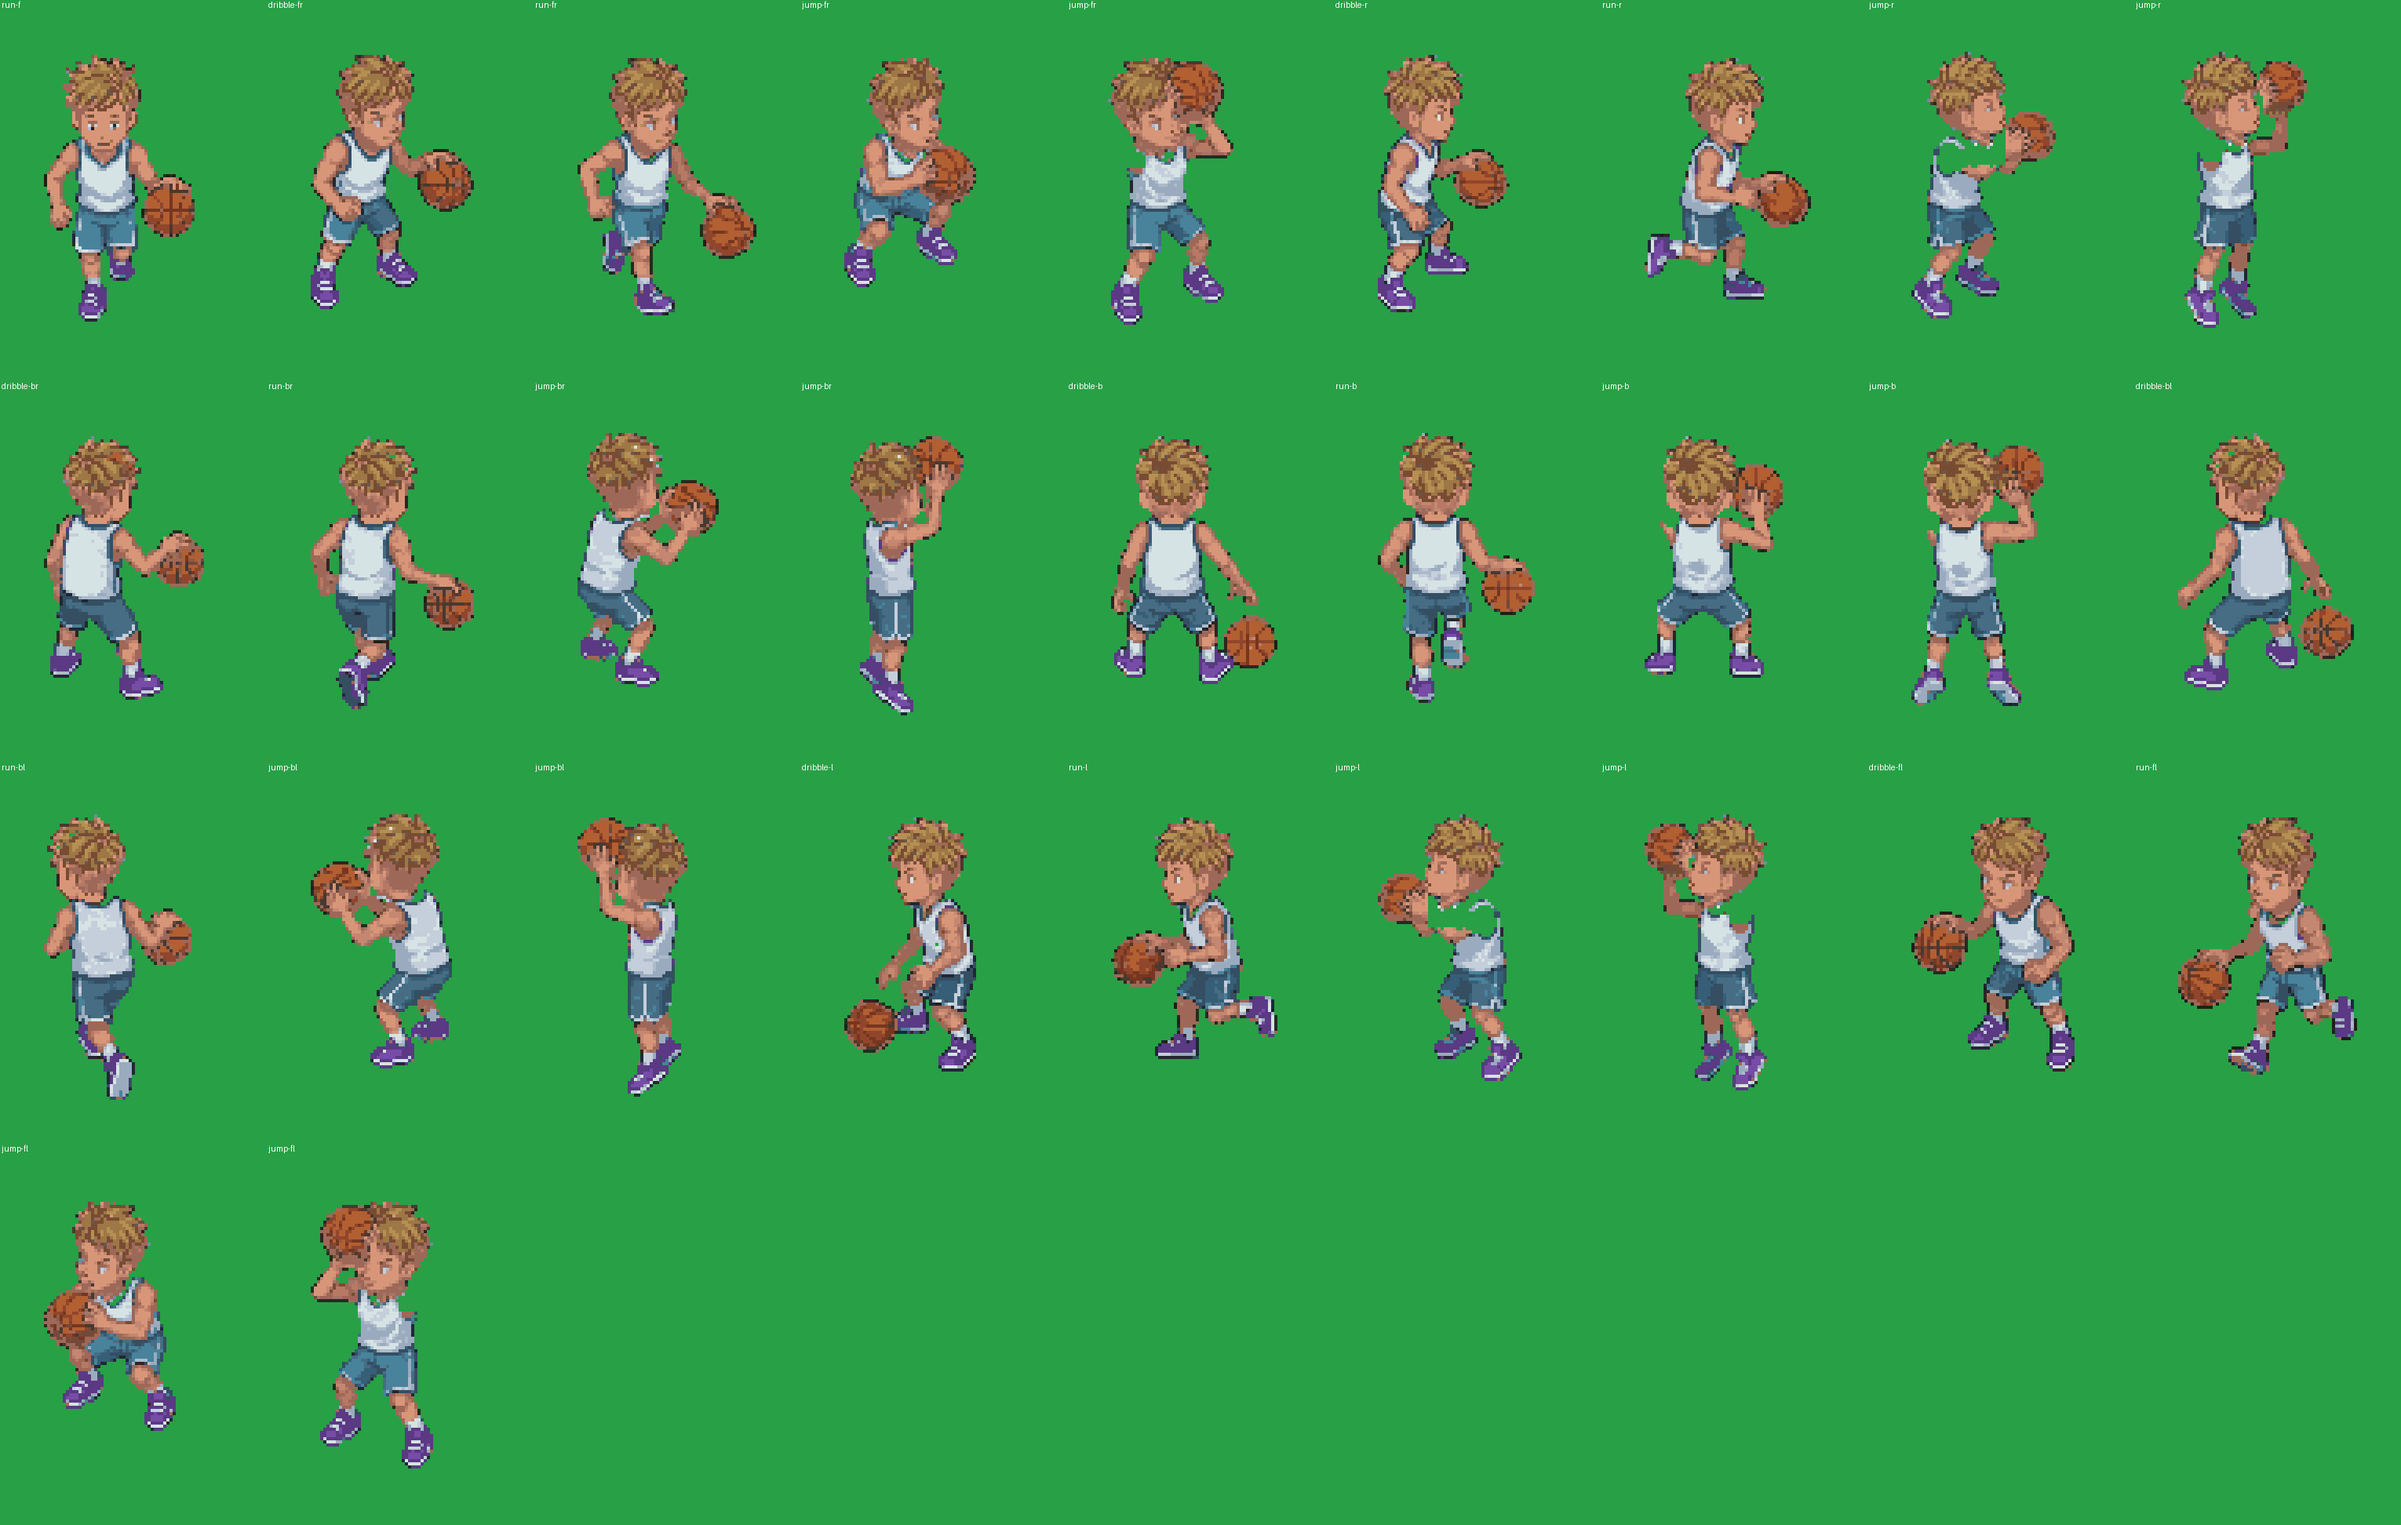
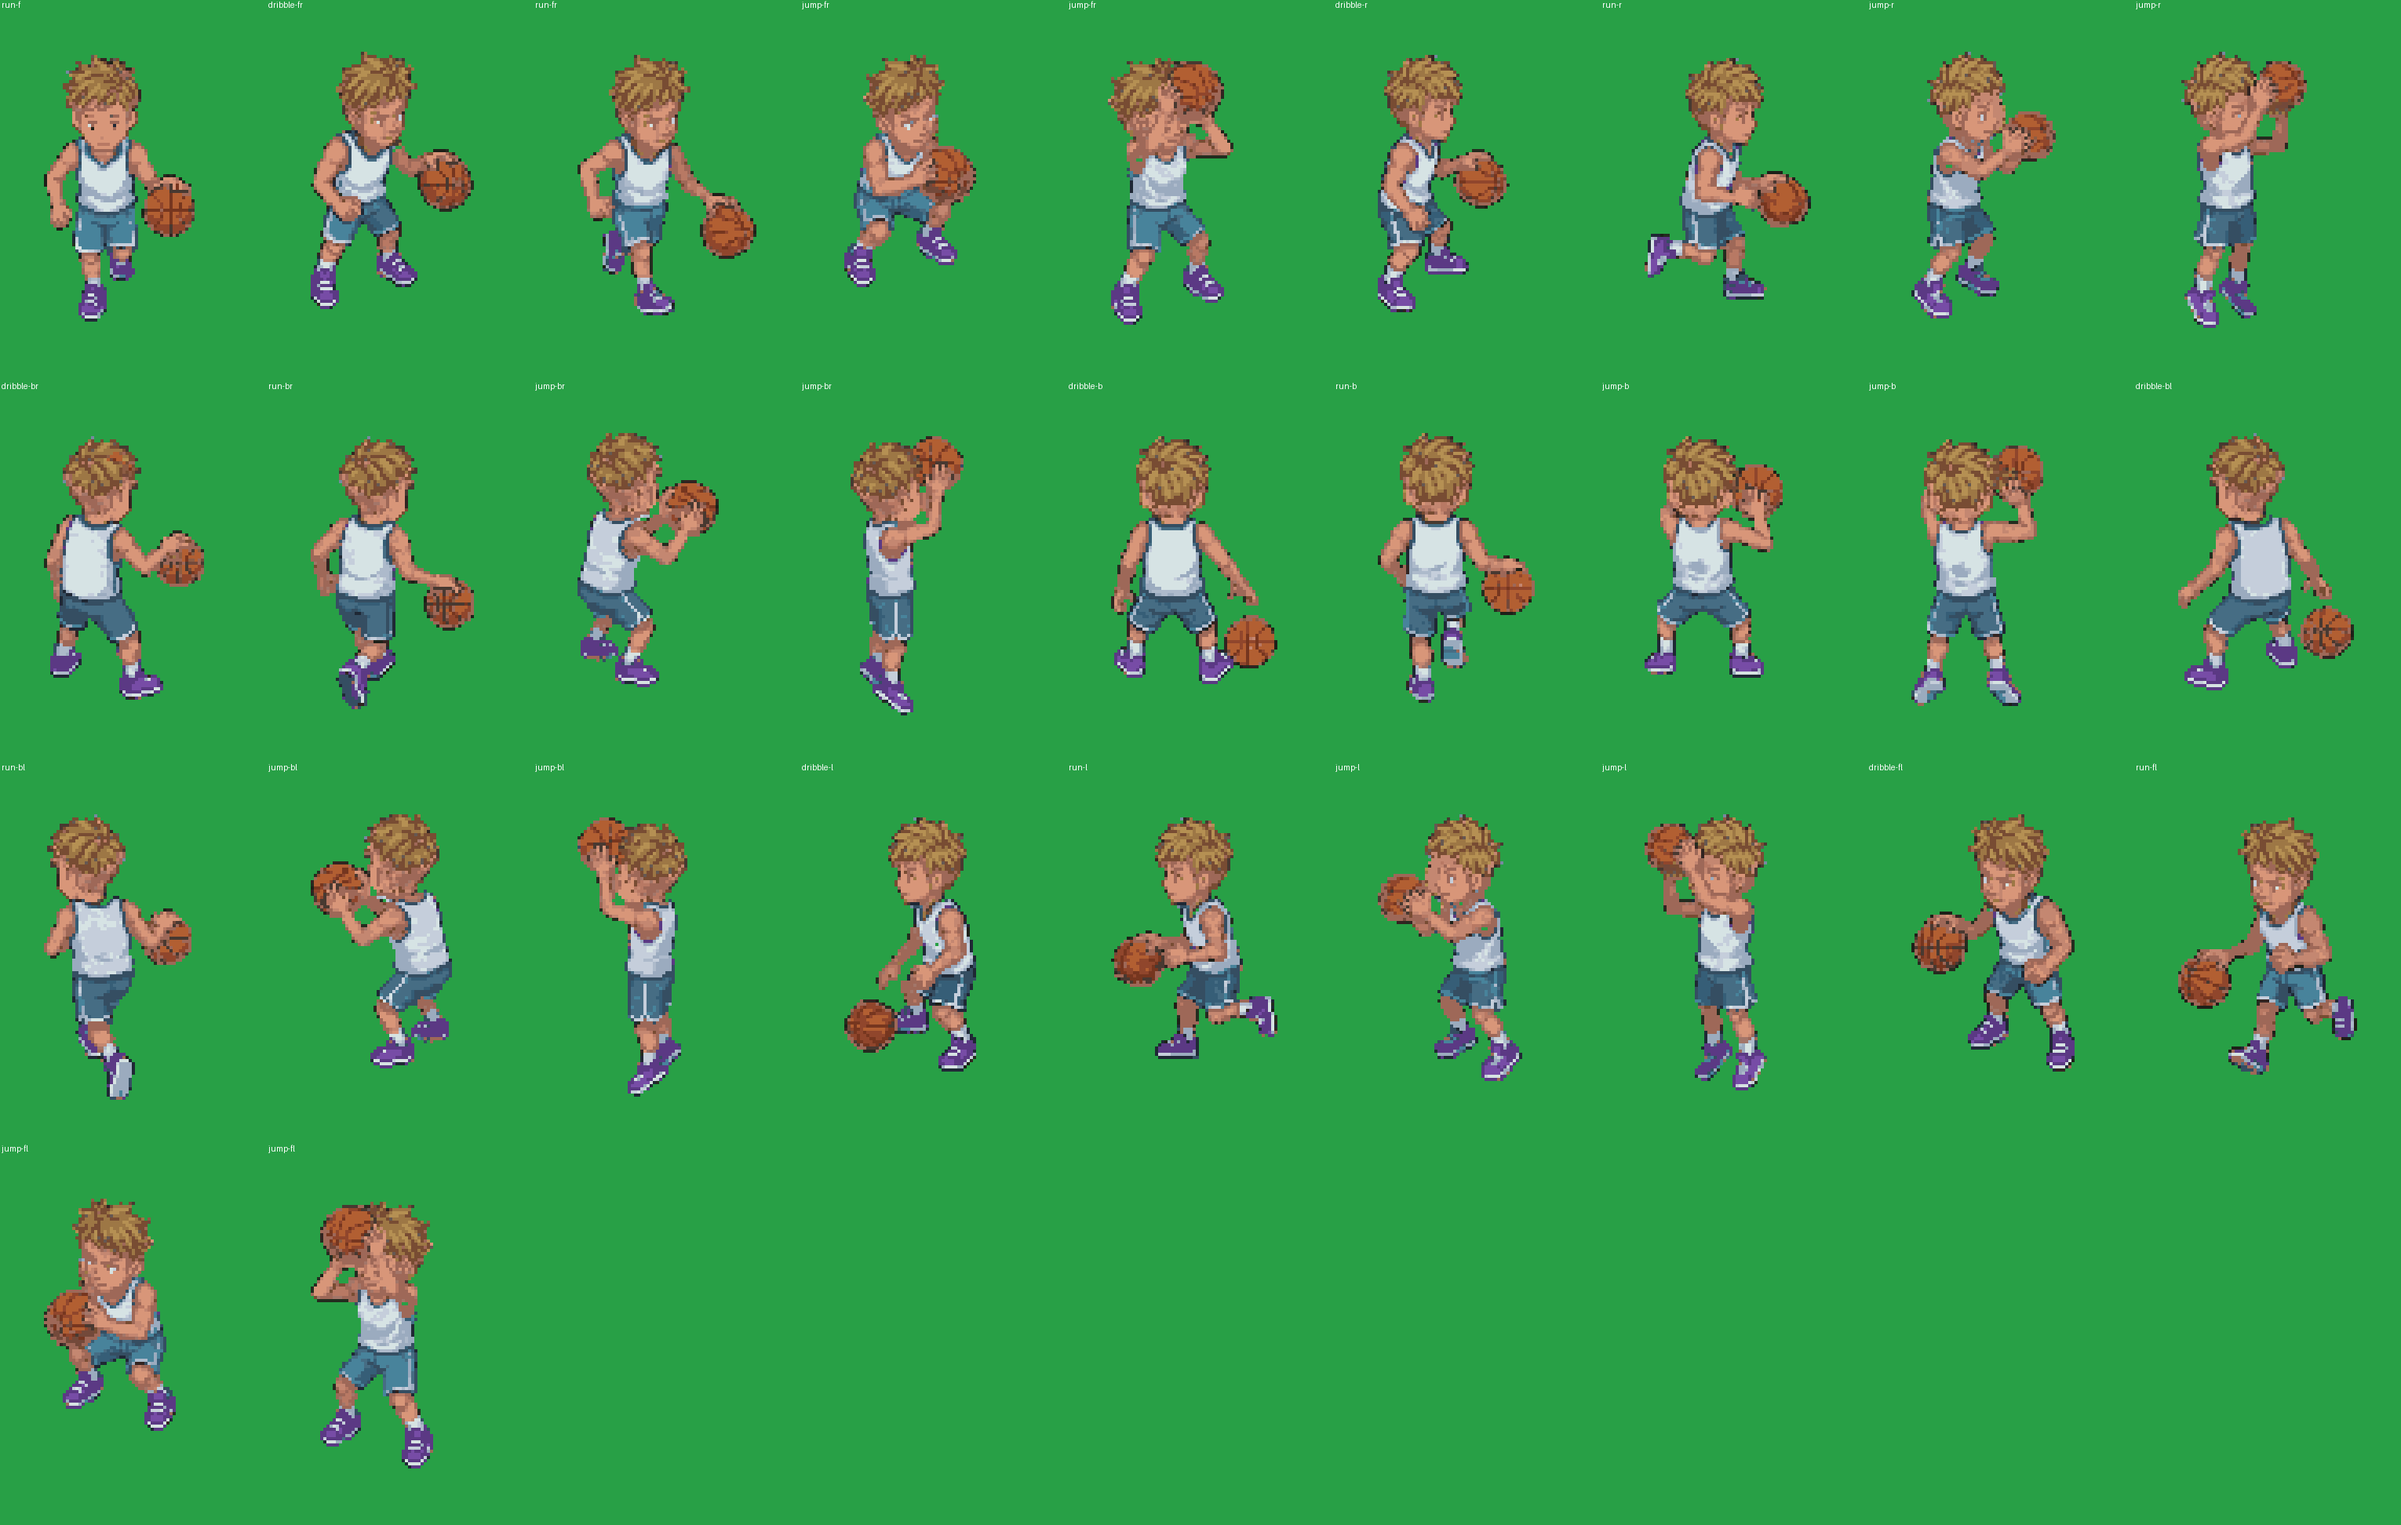
Shots keep his face and arms; hair told from skin by where it is; cleaner head template
In a shot only his hair comes off, so arms across his face and his neck stay as drawn (recoloured), with
the new hair round them. Heads' colours are grouped and each group is hair or skin by where it mostly
shows (crown and back of head, or the middle of the face), so shaded hair stays hair. Short gaps between a
new neck and his shoulders are filled. The template is one clean piece per view (no specks, holes, hand
or collar).

diff --git a/players/layered.js b/players/layered.js
@@ -168,6 +168,25 @@ export async function buildPlayer({ head, build = {} }) {
         }
     }
   }
+  // A short gap between the new head's neck and his shoulders (the new neck ends a little higher than
+  // his did): filled down from the neck.
+  for (const c of cells.values()) {
+    if (!c.view) continue;
+    const vh = c.view.v[3];
+    const y0 = c.y + c.dy + c.view.y + Math.floor(vh * 0.5);
+    const y1 = Math.min(c.y + c.h - 1, c.y + c.dy + c.view.y + vh + 6);
+    for (let x = c.x; x < c.x + c.w; x++) {
+      for (let y = y0; y < y1; y++) {
+        const i = (y * SHEET_W + x) * 4;
+        if (!o[i + 3] || o[i + 4 * SHEET_W + 3]) continue;
+        // a solid pixel with a clear run under it: how long, and is there something solid below?
+        let n = 1;
+        while (n <= 4 && y + n < y1 + 4 && !o[i + n * 4 * SHEET_W + 3]) n++;
+        if (n > 4 || y + n >= c.y + c.h || !o[i + n * 4 * SHEET_W + 3]) continue;
+        for (let k = 1; k < n; k++) o.copyWithin(i + k * 4 * SHEET_W, i, i + 4);
+      }
+    }
+  }
   // Pinholes where his own head came off and the new one doesn't quite reach (by the chin): a clear
   // pixel with solid pixels on nearly every side takes the colour below it, or beside it.
   for (const c of cells.values()) {

diff --git a/tools/pixelart/heads.py b/tools/pixelart/heads.py
@@ -76,44 +76,87 @@ def read_views(path, rig):
 
 
 def label(views, rig):
-    """Each kept pixel's part: "skin", "hair", "dark" (a line) or a fixed palette slot."""
+    """Each kept pixel's part: "skin", "hair", "dark" (a line) or a fixed palette slot.
+
+    Hair in shadow can be as dark and warm as skin, so one sample colour of each can't tell them apart.
+    Instead the head's colours are grouped (a dozen groups), and each group is hair or skin by where it
+    mostly turns up: the crown and the back of the head are hair, the middle of the face from the front
+    and the cheek from the side are skin."""
     rgb = np.array(rig["rgb"])
     fixed = [i for i in range(1, len(rgb)) if i not in PARTS]
     dark = [i for i in fixed if lum(rgb[i]) < 60]
     light_fixed = [i for i in fixed if i not in dark]
 
-    # what's hair and what's skin: from where they surely are (the middle of the face from the front,
-    # the crown from behind)
-    def sample(d, y0, y1, x0, x1):
-        col, m = views[d]
-        s = col.shape[0]
-        ys, xs = slice(int(s * y0), int(s * y1)), slice(int(s * x0), int(s * x1))
-        pick = col[ys, xs][m[ys, xs]]
-        pick = pick[lum(pick) > 70]
-        return np.median(pick, 0)
+    def zone(vk, y0, y1, x0, x1):
+        """A box in a view, as shares of its head's height and width."""
+        m = views[vk][1]
+        ys, xs = np.where(m)
+        z = np.zeros(m.shape, bool)
+        if not len(ys):
+            return z
+        t, b, l, r = ys.min(), ys.max() + 1, xs.min(), xs.max() + 1
+        z[int(t + (b - t) * y0):int(t + (b - t) * y1), int(l + (r - l) * x0):int(l + (r - l) * x1)] = True
+        return z & m
 
-    skin_ref = sample("f", 0.5, 0.68, 0.38, 0.62)
-    hair_ref = sample("b", 0.2, 0.45, 0.35, 0.65)
+    hair_ev = {vk: np.zeros(views[vk][1].shape, bool) for vk in views}
+    skin_ev = {vk: np.zeros(views[vk][1].shape, bool) for vk in views}
+    for vk in views:
+        hair_ev[vk] |= zone(vk, 0, 0.22, 0.2, 0.8)  # the crown, every view
+    for vk in ("b", "up-b"):
+        if vk in views:
+            hair_ev[vk] |= zone(vk, 0, 0.62, 0.1, 0.9)  # the back of the head
+    if "f" in views:
+        skin_ev["f"] |= zone("f", 0.55, 0.85, 0.32, 0.68)  # nose, mouth, chin
+    if "r" in views:
+        skin_ev["r"] |= zone("r", 0.55, 0.85, 0.55, 0.9)  # cheek and jaw, side on
 
-    def part_of(c):
-        L = lum(c)
-        if L < 55:
-            return "dark"
-        ds = np.abs(chroma(c) - chroma(skin_ref)).sum() * 6 + abs(L - lum(skin_ref)) / 160
-        dh = np.abs(chroma(c) - chroma(hair_ref)).sum() * 6 + abs(L - lum(hair_ref)) / 160
-        # not hair or skin: far from both, or grey/white/blue (eyes, glasses, a hair tie)
-        c = np.asarray(c, float)
-        greyish = c.max() - c.min() < 30 or c[2] > c[0] + 10
-        if min(ds, dh) > 1.0 or (greyish and L > 120):
-            return min(light_fixed, key=lambda i: ((rgb[i] - c) ** 2).sum())
-        return "skin" if ds <= dh else "hair"
+    # the colours that might be hair or skin: not lines, not grey, white or blue
+    pts, where = [], []
+    for vk, (col, m) in views.items():
+        for y, x in zip(*np.where(m)):
+            c = col[y, x]
+            if lum(c) < 55 or c.max() - c.min() < 30 or c[2] > c[0] + 10:
+                continue
+            pts.append(c)
+            where.append((vk, y, x))
+    pts = np.array(pts, float)
+    # group them (k-means in a lightness-and-colour space, a few rounds)
+    feat = np.column_stack([lum(pts) / 2, (chroma(pts) * 400)])
+    k = min(12, len(pts))
+    rng = np.random.default_rng(0)
+    centres = feat[rng.choice(len(feat), k, replace=False)]
+    for _ in range(25):
+        group = ((feat[:, None] - centres[None]) ** 2).sum(2).argmin(1)
+        centres = np.array([feat[group == g].mean(0) if (group == g).any() else centres[g] for g in range(k)])
+    h_in = np.zeros(k)
+    s_in = np.zeros(k)
+    for (vk, y, x), g in zip(where, group):
+        h_in[g] += hair_ev[vk][y, x]
+        s_in[g] += skin_ev[vk][y, x]
+    h_share = h_in / max(1, h_in.sum())
+    s_share = s_in / max(1, s_in.sum())
+    decided = [g for g in range(k) if h_in[g] + s_in[g] >= 3]
+    part_of_group = {}
+    for g in range(k):
+        if g in decided:
+            part_of_group[g] = "hair" if h_share[g] >= s_share[g] else "skin"
+    for g in range(k):
+        if g not in part_of_group:  # seen in neither place: like the nearest group that was
+            near = min(decided, key=lambda d: ((centres[g] - centres[d]) ** 2).sum()) if decided else None
+            part_of_group[g] = part_of_group.get(near, "skin")
 
     labels = {}
     for vk, (col, m) in views.items():
         lab = np.empty(m.shape, object)
         for y, x in zip(*np.where(m)):
-            lab[y, x] = part_of(col[y, x])
+            c = col[y, x]
+            if lum(c) < 55:
+                lab[y, x] = "dark"
+            else:
+                lab[y, x] = min(light_fixed, key=lambda i: ((rgb[i] - c) ** 2).sum())  # eyes, glasses, a tie
         labels[vk] = lab
+    for (vk, y, x), g in zip(where, group):
+        labels[vk][y, x] = part_of_group[g]
     return labels, dark
 
 

diff --git a/tools/pixelart/rig.py b/tools/pixelart/rig.py
@@ -39,7 +39,7 @@ UP_MOVES = ("jump", "release")  # moves where he looks up at the hoop
 # The frame each view's guide comes from: standing dribbles (or the jog, front), and early in the jump
 # for looking up (his face still clear of his arms). Nobody shoots facing straight at us, so the front
 # looking-up view is the normal front.
-REF = {d: (f"dribble-{d}" if d != "f" else "run-f", 0) for d in DRAWN}
+REF = {d: (f"dribble-{d}" if d not in ("f", "fr") else f"run-{d}", 0) for d in DRAWN}
 REF.update({f"up-{d}": (f"jump-{d}", 1) for d in DRAWN if d != "f"})
 REF["up-f"] = REF["f"]
 # His face is behind his arms in most shot frames, so the looking-up guide is his normal head tipped
@@ -343,6 +343,21 @@ def main():
                     if 0 <= fy < hm.shape[0] and 0 <= fx < hm.shape[1]:
                         keep[yy, xx] = hm[fy, fx]
                         hair_sq[yy, xx] = hm[fy, fx] and cellpx[fy, fx] in HAIR
+            # clean: just the head in one piece, with no holes (no specks, no stray bits of hand)
+            lumps = sorted(pieces(keep), key=len, reverse=True)
+            keep = np.zeros_like(keep)
+            for p in lumps[0]:
+                keep[p] = True
+            keep = fill_holes(keep)
+            # and inside an oval from the top of his hair to just under his chin, as wide as his hair
+            # (narrow at the bottom: not a hand by his chin, or his collar)
+            hy, hx = np.where(hair_sq)
+            if len(hy):
+                top, bottom = hy.min(), c["neck"] + 1
+                ey, ex = (top + bottom) / 2, (hx.min() + hx.max()) / 2
+                ry, rx = (bottom - top) / 2 + 1, (hx.max() - hx.min()) / 2 * 1.08 + 1
+                yy, xx = np.ogrid[:s, :s]
+                keep &= ((yy - ey) / ry) ** 2 + ((xx - ex) / rx) ** 2 <= 1
             km = Image.fromarray((grow(keep, 1) * 255).astype(np.uint8)).resize(crop.size, Image.NEAREST)
             cut = Image.new("RGBA", crop.size, (0, 0, 0, 0))
             cut.paste(crop, (0, 0), km)
@@ -383,6 +398,11 @@ def main():
         allowed[ty[ok], tx[ok]] = True
         cell = a[y:y + h, x:x + w]
         head, _ = head_mask(cell, dark, grow(allowed, 2))
+        if it["pose"] == "up":
+            # in a shot only his hair comes off: his face, neck and arms (mostly in front of his face)
+            # stay as drawn, recoloured like the rest, and the new hair shows round them
+            lines = np.isin(cell, dark) & head
+            head = head & (np.isin(cell, HAIR) | (lines & grow(cell == 0, 1)) | (lines & ~grow(np.isin(cell, SKIN), 1)))
         region = body[y:y + h, x:x + w]
         region[head] = 0
         region[:] = fold_into_parts(region, rgb, keep=ball_of(region))
